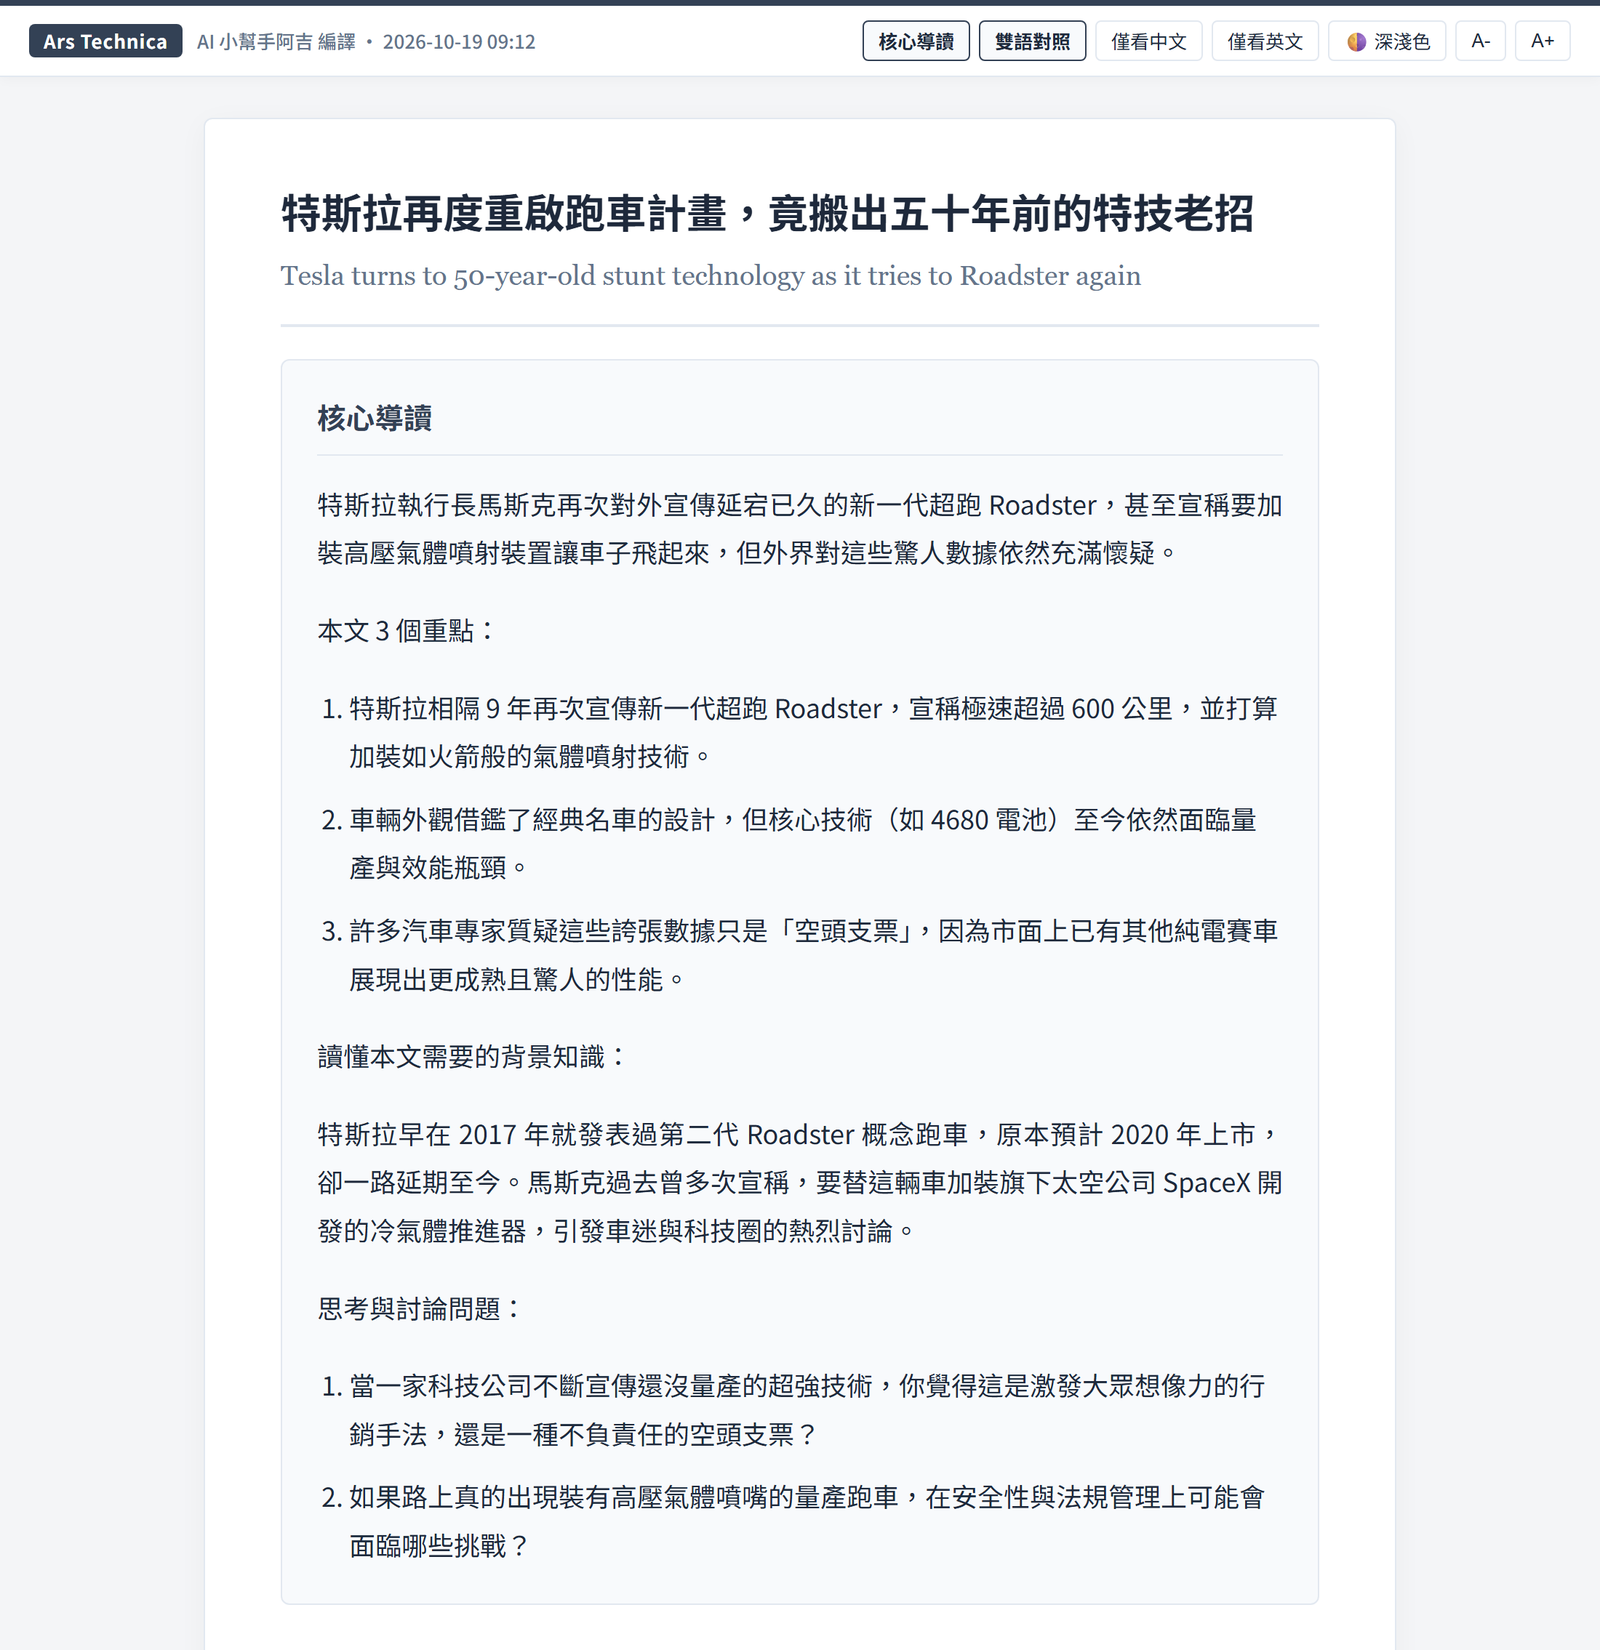
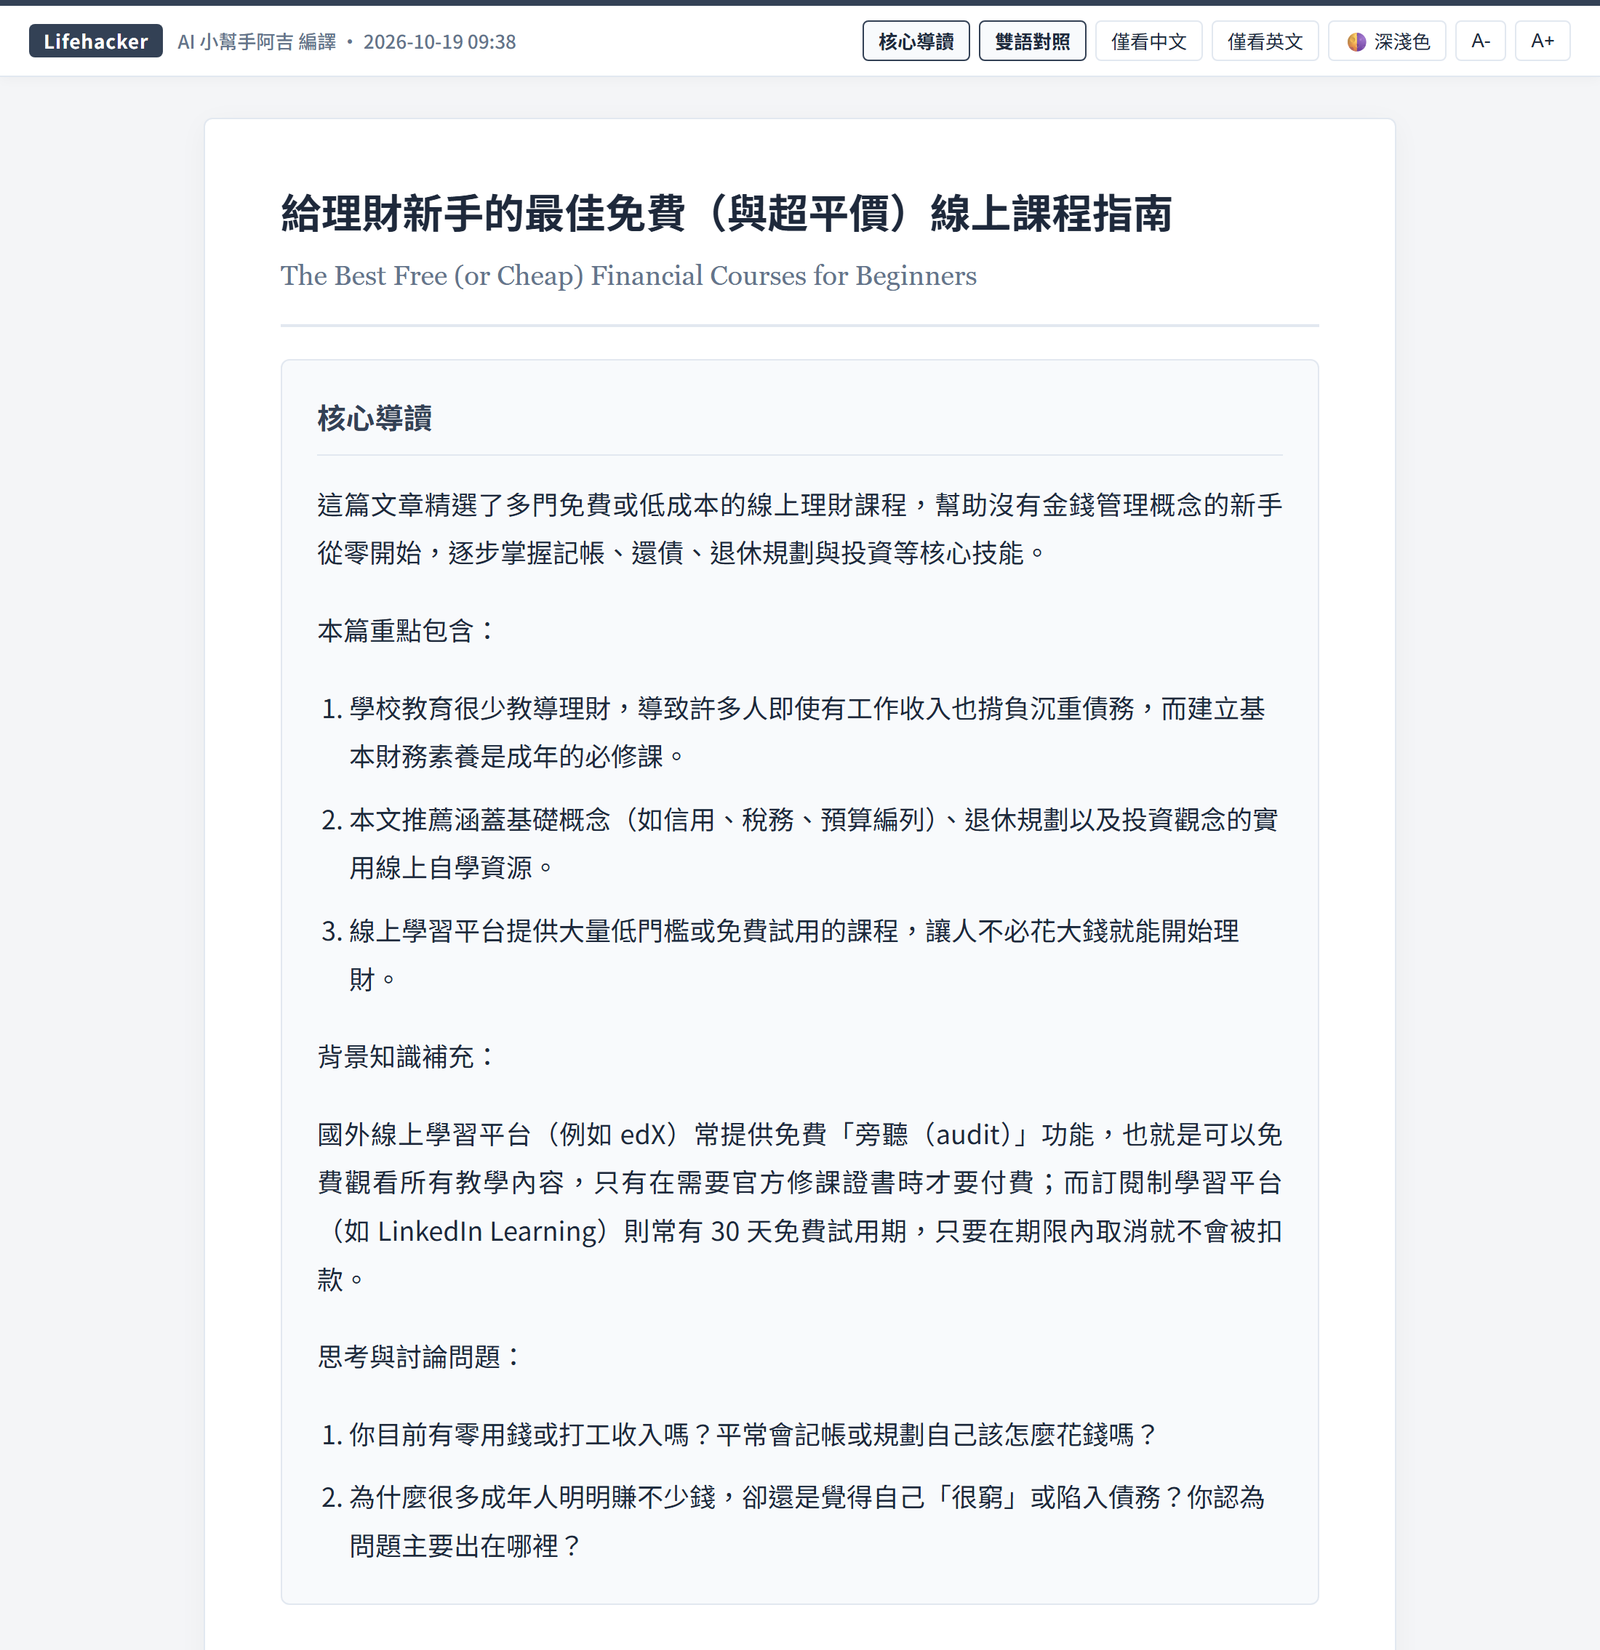
README.md 上線；截圖改用 v2.8.0 講義（含朗讀按鈕）

diff --git a/README.md b/README.md
@@ -1,5 +1,3 @@
-<!-- 草稿：由 Claude 依 SEAM 版面起草，請改寫成自己的話後再改名為 README.md。〔〕內為待決定或待補的地方。 -->
-
 # 阿吉編譯
 
 **A-Ji Compile · v2.8**
